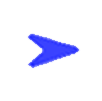
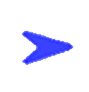
added all the images

Changed region(s): [[0.2472, 0.3261, 0.8315, 0.7174], [0.5843, 0.413, 0.6966, 0.4565], [0.5169, 0.3913, 0.5843, 0.413]]

diff --git a/urban/index.html b/urban/index.html
@@ -51,18 +51,20 @@
 }
 
 #searchToggle{
-  position:absolute;
+  position:fixed;
+   width:  20px;
   top:20px;
   left:50%;
   transform:translateX(-50%);
   z-index:9999;
   display:inline-block;
   cursor: pointer;
+   
 }
 
-
+/* 
 #sbar, #sbar2{
-  width:40px;
+
   display:block;
   cursor:pointer;
 }
@@ -76,13 +78,13 @@
 
 
 /* hover only on the icon */
-#sbar2:hover{
+/* #sbar2:hover{
   display:none;
 }
 
 #sbar2:hover + #sbar{
   display:block;
-}
+} */ 
 
 .mapboxgl-ctrl-geocoder{
   display:none;
@@ -97,10 +99,9 @@
 </div>
 
 <div id="searchToggle">
-
-  <img id="sbar2" src='assets/images/sbar1.png'>
-  <img id="sbar" src='assets/images/sbar.png'>
-
+<img src="assets/images/sbar.png"
+onmouseover="this.src='assets/images/sbar1.png'"
+onmouseout="this.src='assets/images/sbar.png'">
 </div>
 
 
